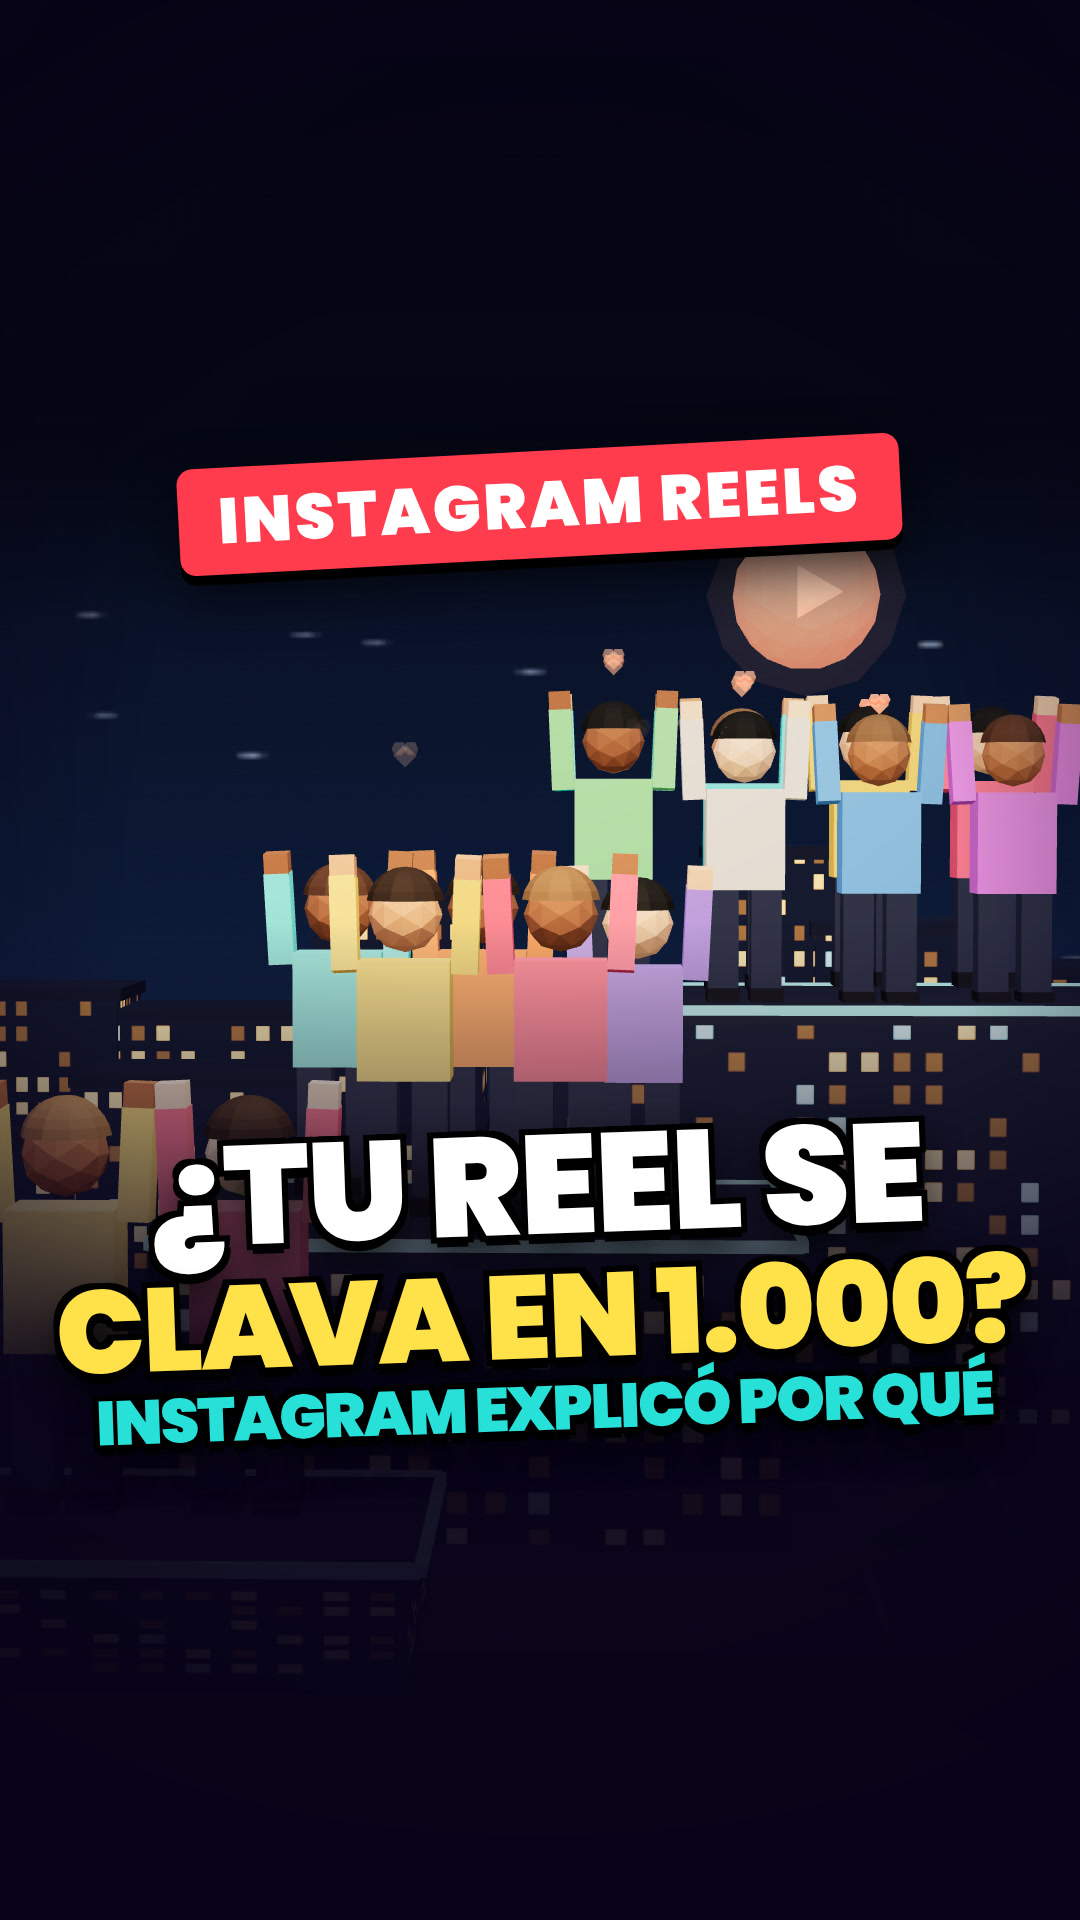
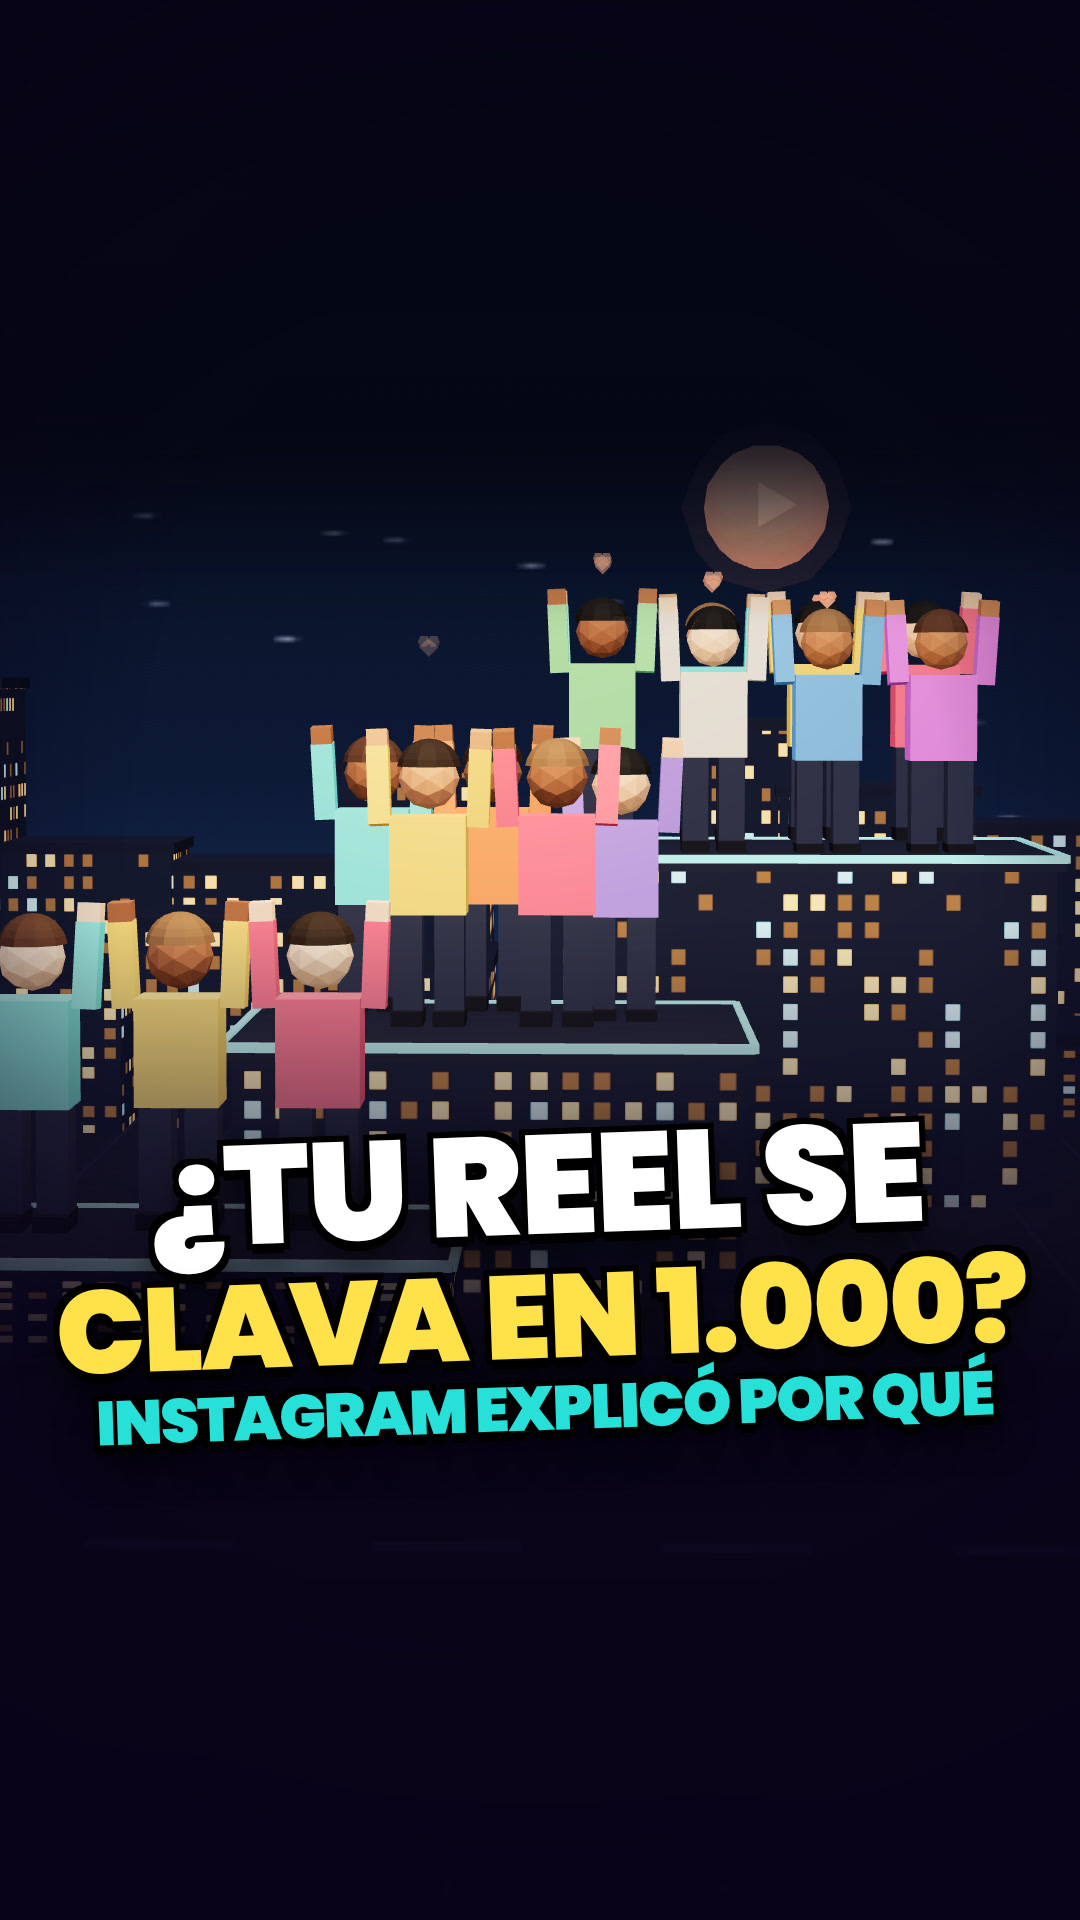
potabilizadora devuelta (gota b13); producción en curso
Claude-Session: https://claude.ai/code/session_01Y7nuwRRu4GGnUKyWwGBG5W

Changed region(s): [[0.0, 0.2188, 1.0, 0.7188]]

diff --git a/videos/reels-1000-vistas/beats.ts b/videos/reels-1000-vistas/beats.ts
@@ -32,7 +32,7 @@ const LY = 0.3; // subo el punto de mira: la escena baja al centro del cuadro, l
 const up = (v?: number[]) => (v ? [v[0], v[1] + LY, v[2]] : undefined);
 // Encuadre: la gente tiene que quedar ARRIBA de las placas (y < 1250 px) y debajo de la franja de subtítulos.
 // K aleja la cámara del punto de mira (todo un poco más chico) y SH sube la imagen entera sin cambiar la perspectiva.
-const K = 1.2, SH = -0.09;
+const K = 1.2, SH = -0.1;
 const away = (c: number[], l: number[]) => [l[0] + (c[0] - l[0]) * K, l[1] + (c[1] - l[1]) * K, l[2] + (c[2] - l[2]) * K];
 const CAM = (from: number[], to: number[], look: number[], lookTo?: number[], ly = LY, sh = SH) => { const L = [look[0], look[1] + ly, look[2]]; const LT = lookTo && [lookTo[0], lookTo[1] + ly, lookTo[2]];
   return { from: away(from, L), to: away(to, LT ?? L), look: L, lookTo: LT, fov: 44, shift: sh } as any; };
@@ -43,7 +43,7 @@ export const BEATS: BeatSpec[] = [
   // 1. ¿Tu reel se clava en 300, 1.000 o 1.500 vistas? Instagram explicó por qué.
   { id: 'b01', set: SET, cam: CAM([0.55, 1.65, 6.1], [0.15, 1.6, 5.5], [0.1, 1.2, 0]), keywords: ['reel', '1.000', 'vistas?'],
     actors: [WORLD,
-      { type: 'folk', pos: [-0.6, 0, -0.05], rot: [0, 0.3, 0], s: 0.9, p: { ...ME, seq: [[0, 'phone'], [W('b01', 'Instagram'), 'look']] } },
+      { type: 'folk', pos: [-0.6, 0, -0.3], rot: [0, 0.3, 0], s: 0.9, p: { ...ME, seq: [[0, 'phone'], [W('b01', 'Instagram'), 'look']] } },
       { type: 'glass', pos: [-0.35, 1.5, 0.2], p: { w: 0.72, d: 0.5, flash: W('b01', '300,') } },
       { type: 'bubble', p: { kf: [[0, -0.25, 1.05, 0.4], [1.0, -0.35, 1.21, 0.2]], wob: 0.006 } },
       { type: 'glass', pos: [0.42, 2.0, -0.35], at: W('b01', '1.000'), p: { w: 0.72, d: 0.5, flash: W('b01', '1.000') + 0.6 } },
@@ -140,10 +140,10 @@ export const BEATS: BeatSpec[] = [
   // 10. Para probar están los reels de prueba: primero los ve solo gente que no te sigue.
   { id: 'b10', set: SET, cam: CAM([0.3, 1.6, 5.4], [0.0, 1.55, 4.9], [0, 0.85, -0.15]), keywords: ['reels', 'sigue.'],
     actors: [WORLD,
-      { type: 'folk', pos: [0.0, 0, 0.75], rot: [0, Math.PI, 0], s: 0.9, p: { ...ME, pose: 'phone' } },
+      { type: 'folk', pos: [0.0, 0, 0.5], rot: [0, Math.PI, 0], s: 0.9, p: { ...ME, pose: 'phone' } },
       { type: 'group', pos: [-0.95, 0, -0.35], p: { n: 5, h: 0.5, seed: 19, fol: 5, off: W('b10', 'primero') } },
       { type: 'group', pos: [0.9, 0, 0.1], p: { n: 5, h: 0.3, seed: 20, fol: 0, lit: W('b10', 'gente'), look: W('b10', 've'), react: W('b10', 'sigue.') } },
-      { type: 'bubble', p: { c: TRIAL, kf: [[0, 0.0, 0.95, 0.45], [W('b10', 'prueba:'), 0.0, 1.35, 0.25], [W('b10', 'primero') + 0.7, 0.9, 1.62, 0.1, 0.2]] } },
+      { type: 'bubble', p: { c: TRIAL, kf: [[0, 0.0, 1.05, 0.15], [W('b10', 'prueba:'), 0.0, 1.4, 0.0], [W('b10', 'primero') + 0.7, 0.9, 1.62, 0.1, 0.2]] } },
     ],
     overlays: [P1('REELS DE PRUEBA (TRIAL REELS):', W('b10', 'reels')), P2('SOLO NO SEGUIDORES', W('b10', 'solo')), FU_DIC24] },
 

diff --git a/videos/atucha-olla-72-tornillos/props.tsx b/videos/atucha-olla-72-tornillos/props.tsx
@@ -434,10 +434,10 @@ export const Graphite: React.FC<P> = ({ t, p }) => {
   return <group>
     {Array.from({ length: cols * rows }, (_, i) => { const cx = -W / 2 + s / 2 + (i % cols) * (s + gap), cy = s / 2 + Math.floor(i / cols) * (s + gap); const v = 0.5 + 0.5 * Math.sin(i * 1.7 + t * 2);
       return <group key={i} position={[cx, cy, 0]}>
-        <B s={[s, s, s]} c={hk > 0 ? '#2e2b29' : '#2a2e32'} e={hk > 0 ? '#ff5a1f' : undefined} ei={hk * (0.1 + 0.04 * v)} />
+        <B s={[s, s, s]} c={hk > 0 ? '#2a2725' : '#2a2e32'} e={hk > 0 ? '#ff6a2a' : undefined} ei={hk * (0.06 + 0.03 * v)} />
         <Cyl r={s * 0.14} h={0.02} rot={[PI / 2, 0, 0]} pos={[0, 0, s / 2 + 0.005]} c="#15181b" />
       </group>; })}
-    {hk > 0 && <pointLight position={[0, H / 2, 1]} intensity={1.2 * hk} color="#ff7a3a" distance={3} />}
+    {hk > 0 && <pointLight position={[0, H / 2, 1]} intensity={0.4 * hk} color="#ff7a3a" distance={3} />}
     <Neutrons t={t} list={list} xe={-W / 2} xmax={W / 2} z={s / 2 + 0.06} />
   </group>;
 };
